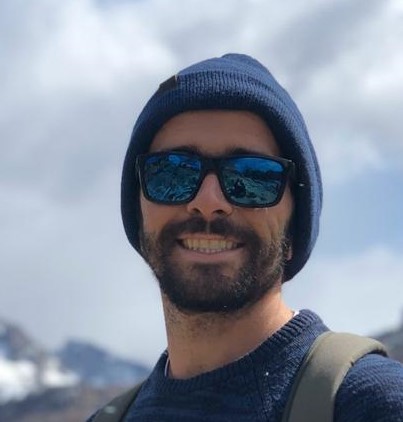
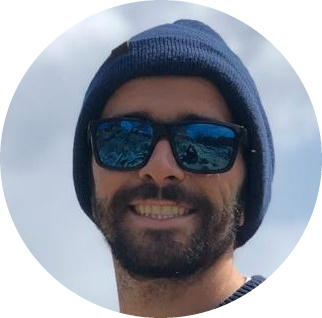
new photo- round

diff --git a/pelicanconf.py b/pelicanconf.py
@@ -73,7 +73,7 @@ MinimalXY Theme-----------------------------------------------------------------
 THEME = 'minimal_xy_theme'
 AUTHOR_INTRO = u'Hello world! I’m Pablo Benavides'
 AUTHOR_DESCRIPTION = u'Hello world! I’m Pablo Benavides. I use Python to solve transportation problems'
-AUTHOR_AVATAR = 'images/me_face.jpg'
+AUTHOR_AVATAR = 'images/me_face_round.png'
 AUTHOR_WEB = 'https://pablobenavides.site'
 
 SOCIAL = (('github', 'https://github.com/PybloBenavides'),
